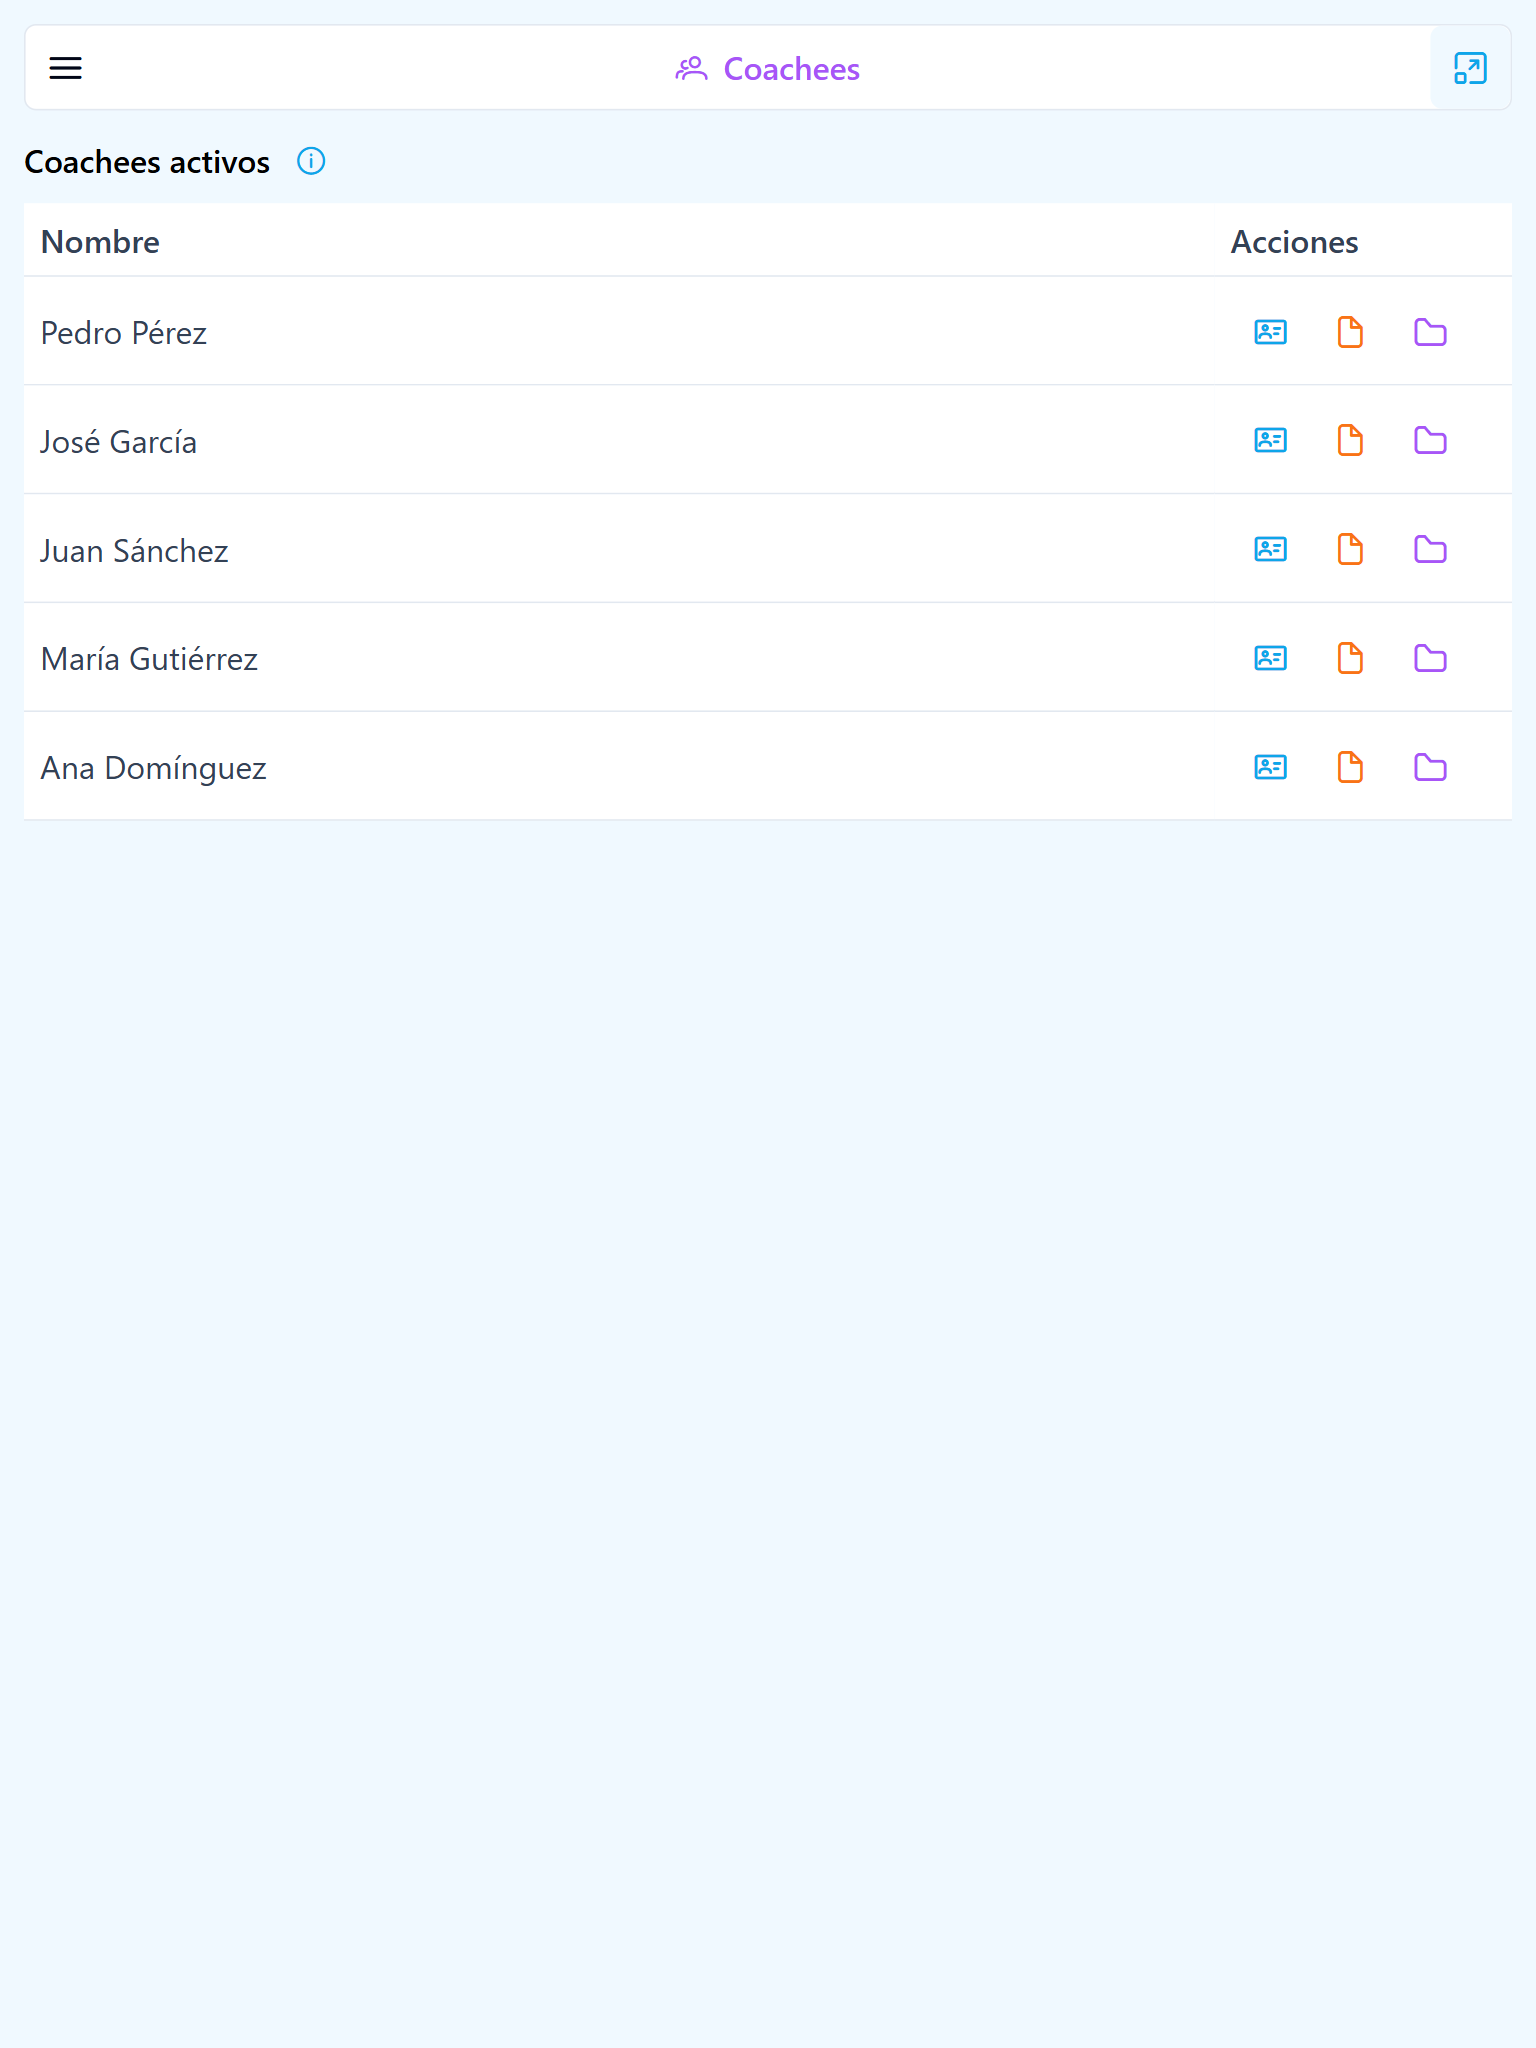
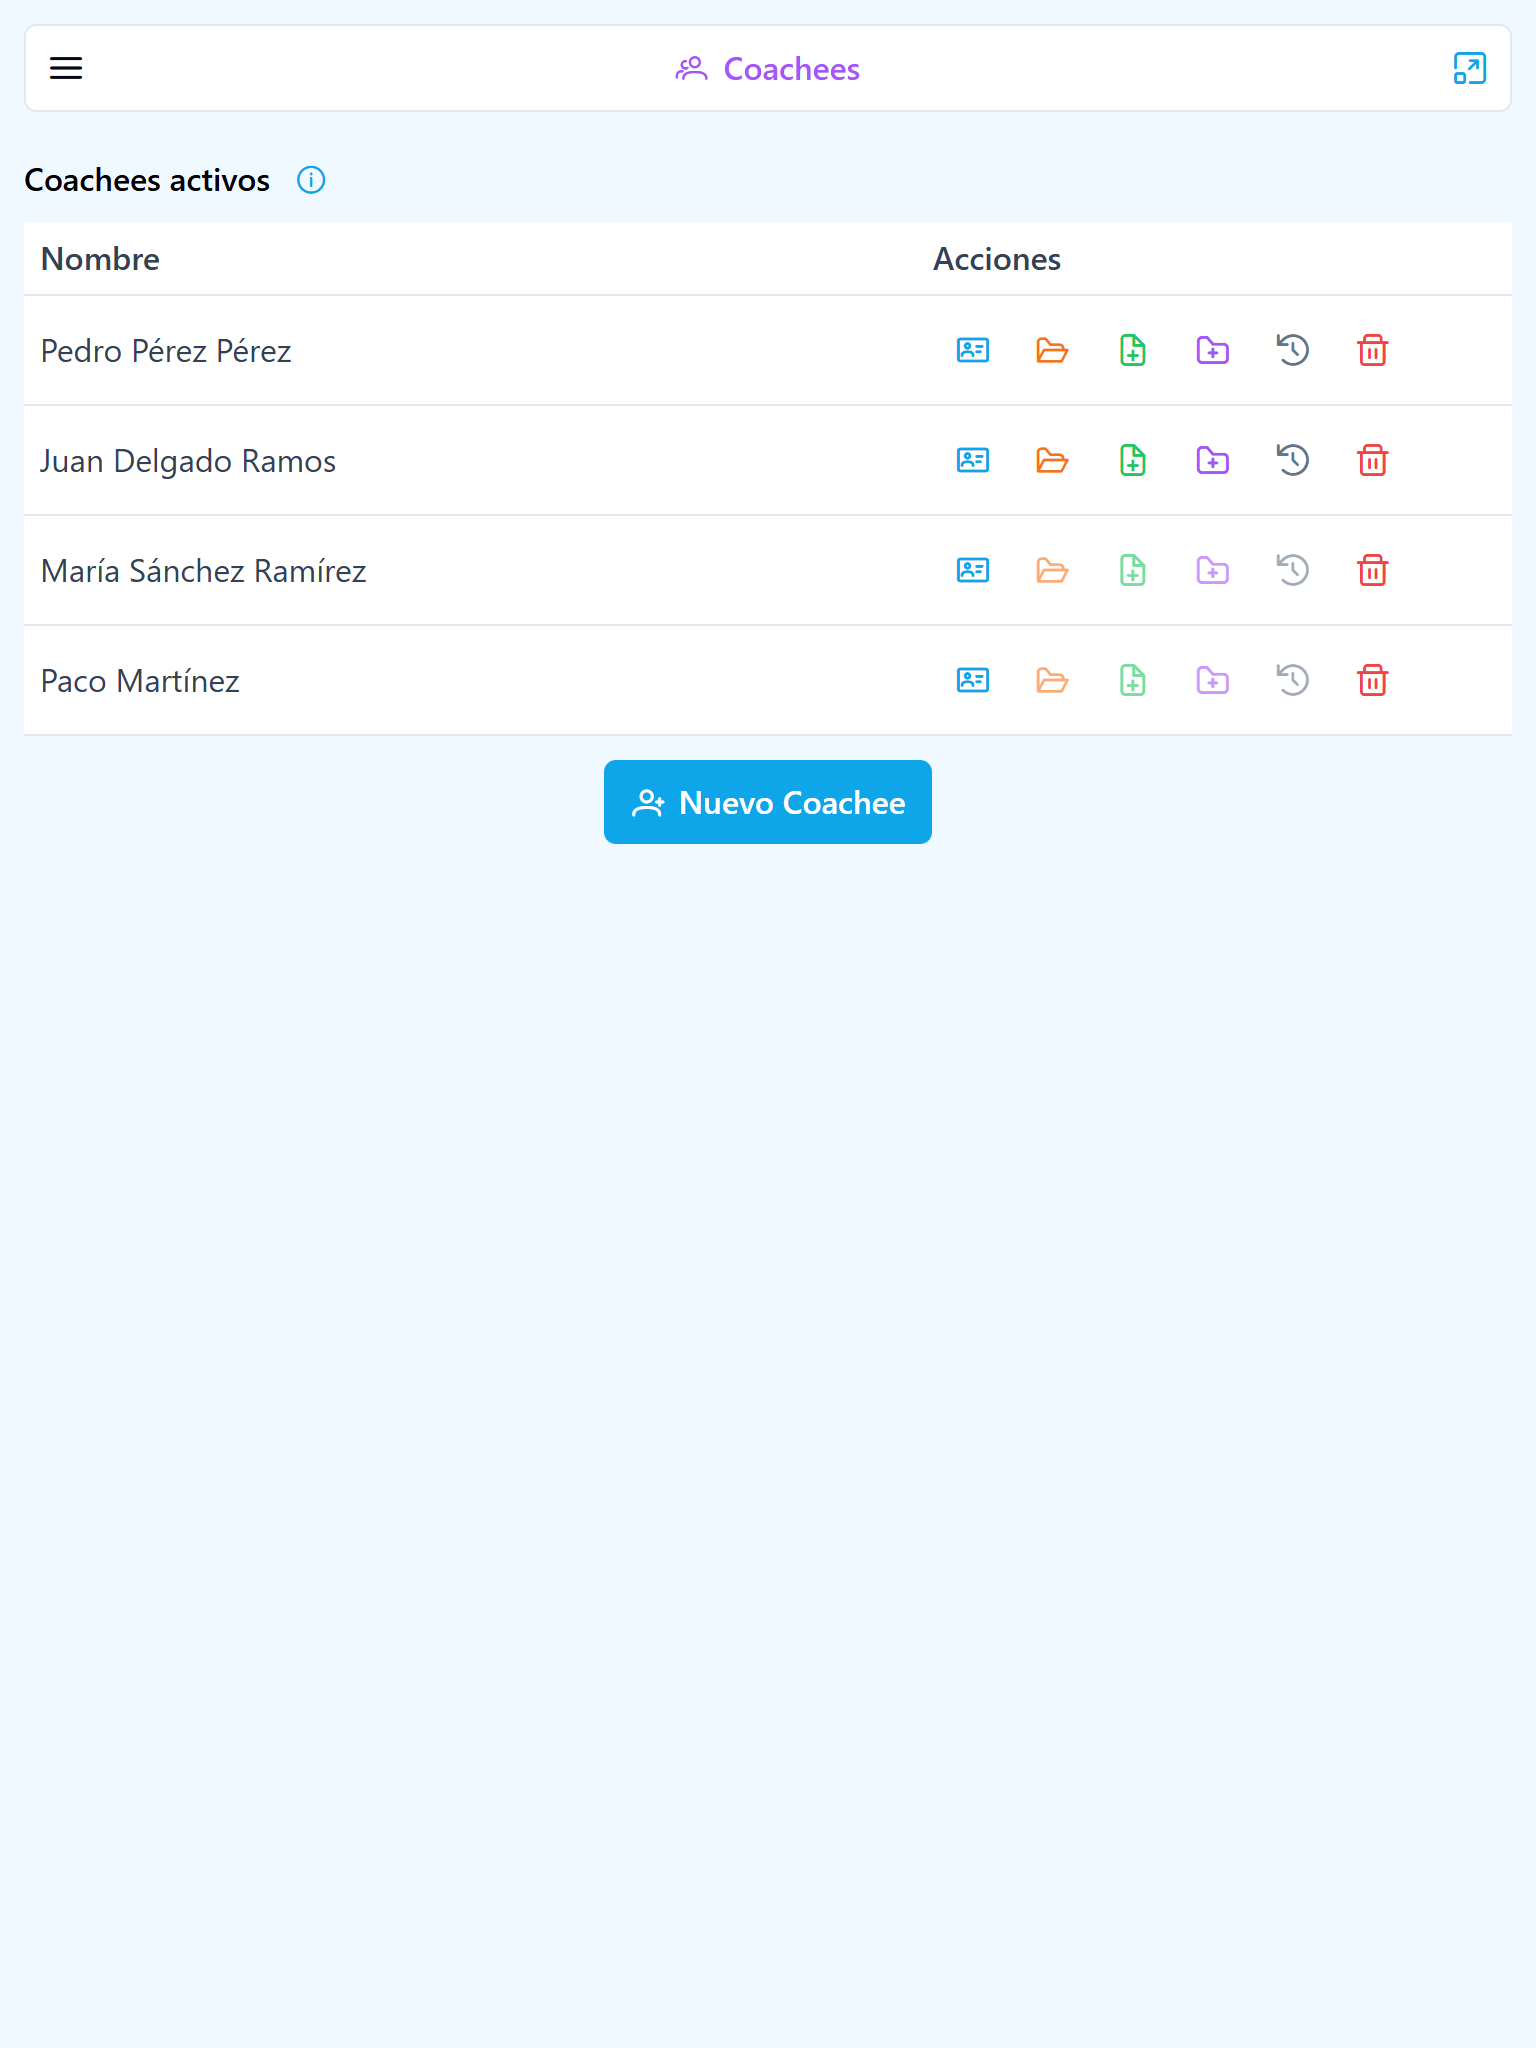
docs: updated README with screens: coachees, coachee, process

diff --git a/frontend/src/app/process/process.html b/frontend/src/app/process/process.html
@@ -119,7 +119,7 @@
 
         </div>
 
-        <div class="flex justify-end mt-4 gap-4">
+        <div class="flex justify-center mt-4 gap-4">
             <!-- <p-button type="button" label="Borrar" severity="secondary" [outlined]="true"
                 (onClick)="processForm.reset()" /> -->
             <p-button type="submit" label="Guardar Proceso" icon="pi pi-check" [disabled]="processForm.invalid" />

diff --git a/README.md b/README.md
@@ -13,6 +13,8 @@
     - [Frontend páginas](#frontend-páginas)
       - [Login](#login)
       - [Coachees](#coachees)
+      - [Coachee](#coachee)
+      - [Process](#process)
       - [Sesion](#sesion)
         - [Principal](#principal)
         - [Elementos](#elementos)
@@ -66,6 +68,17 @@ En resumen, Coach Asistant permite maximizar la recogida de datos y tratarlos co
 #### Coachees
 
   <img src="docs/images/coachees.png" width="300" style="vertical-align: top;">
+
+#### Coachee
+
+<div style="display: flex; flex-wrap: wrap; gap: 20px; align-items: flex-start; margin-top: 1rem;">
+  <img src="docs/images/coachee.png" width="300" style="vertical-align: top;">
+  <img src="docs/images/coachee2.png" width="300" style="vertical-align: top;">
+</div>
+
+#### Process
+
+  <img src="docs/images/process.png" width="300" style="vertical-align: top;">
 
 #### Sesion
 
